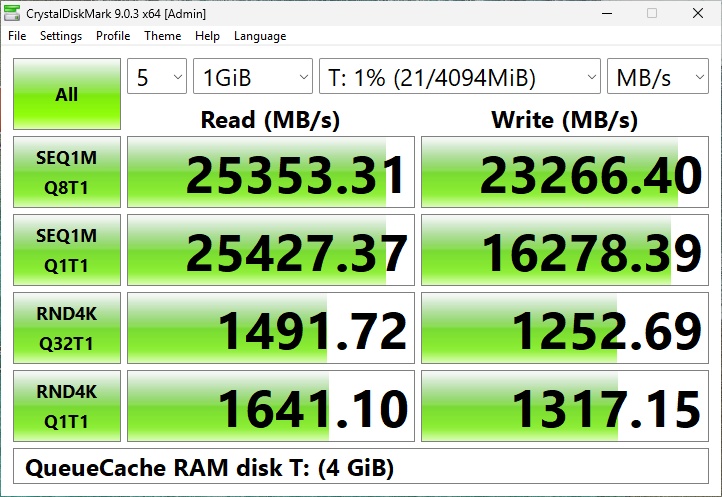
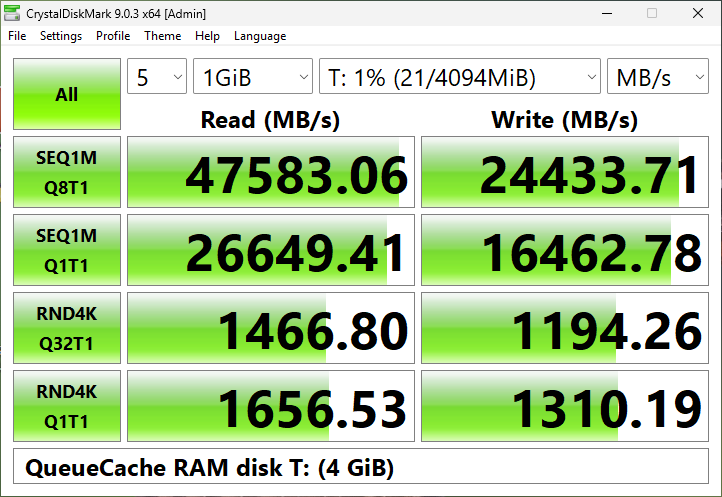
Record the final regression and CrystalDiskMark RAM-disk results
The lean release-performance campaign on signed 0.4.583.1 completes 11/11
phases and 106/106 cases with restoration; all retained correctness checks
pass and the write matrix shows no regression beyond cross-day variation.
CrystalDiskMark SEQ1M Q8T1 read on a 4 GiB RAM disk rises from 25,353 to
47,583 MB/s; the README's RAM disk column and screenshot are updated and the
known issue is marked resolved. The campaign guide describes the lean
profiles.

diff --git a/docs/PERFORMANCE_FINDINGS.md b/docs/PERFORMANCE_FINDINGS.md
@@ -90,6 +90,30 @@ reads then the standard path, 58,361 MiB verified, rebound. Under Verifier the
 same checks verified 14,452 + 18,690 + 17,558 MiB with no fault. Under Verifier
 submission is slower than a copy, so the adaptive policy correctly stays inline.
 
+**README benchmark.** Real CrystalDiskMark 9.0.3 GUI on a new 4 GiB RAM disk T:
+(0.4.583.1, default adaptive mode, normal priority, Verifier off, Default theme,
+150% zoom, two complete runs, the faster kept): SEQ1M Q8T1 read **47,583 MB/s**
+(README before: 25,353), write 24,434 (23,266); SEQ1M Q1T1 26,649 / 16,463;
+RND4K Q32T1 1,467 / 1,194; RND4K Q1T1 1,657 / 1,310 (1,641 / 1,317). The other
+run: 47,663 / 23,393, 26,206 / 16,830, 1,463 / 1,206, 1,649 / 1,312. Only the RAM
+disk column was re-measured; the Q: columns are unaffected and stay from 0.4.476.1.
+
+**Final regression.** Signed 0.4.583.1 (final source; drivers loaded and
+Verifier off), lean `release-performance`, one command: **COMPLETED 11/11 phases,
+106/106 cases, 1 h 56 min 23 s, restored**, run
+`QueueCache-Campaign-20261011-100402-d4f2fc304e714c708305406f06b93426`. All 118
+retained correctness sub-checks pass; 2,266 owned process exits are zero. The
+RAM reference under the new default measures Direct 1M Q8T1 at a median
+43,590 MiB/s (Q1T1 24,821, Q2T4 36,097; 4K reads never reach the new path). The
+lifecycle checks, recall, 30-minute sustained phase and map cost pass their
+guards. The 72-case write matrix against PR #8's run (0.4.476.1, two days
+earlier, same DiskSpd): cached sequential writes are within noise (Q1 +0.6%, Q8
+−5% to +1% with overlapping ranges), cached RND4K Q32 ±2%, cached RND4K Q1
+1.5–2.7% lower with separated ranges. That last difference is under the 3%
+review threshold and within cross-day variation seen before; PR #9's default-off
+diagnostics add a few counter updates to the cache path and may contribute.
+Uncached results follow the Ceph storage (higher today).
+
 ## Which changes belong together
 
 | Stage | Changes retained | Evidence and limits |
@@ -585,7 +609,7 @@ running again. Private evidence and lab files remain preserved.
 
 ## Recorded verification time
 
-These selected completed runs total approximately **3 hours 39 minutes**. This
+These selected completed runs total approximately **6 hours 2 minutes**. This
 is measured run time, not a reconstruction of all engineering work or every
 earlier investigation. Installation/restarts, CI, coding, analysis, incomplete
 attempts and inactive conversation gaps add time. The NTFS/ReFS gap from 04:54
@@ -608,6 +632,13 @@ to 06:55 was not two hours spent executing that benchmark.
 | Controller/restoration retry smoke, two phases | 1 min 07 s |
 | Plan-116 RAM attribution, 81 correctness checks + 3 traced windows | 7 min 38 s |
 | Plan-116 cached priority/affinity, 81 correctness checks + 36 untraced windows | 25 min 02 s |
+| Plan-117 coordination diagnostic, nine windows | 4 min 33 s |
+| Plan-117 controller smoke, two phases | 1 min 18 s |
+| Wake-up smoke (owned job, agent idle), two phases | 1 min 03 s |
+| Plan-118 asynchronous-read comparison, 18 windows | 8 min 50 s |
+| Plan-119 revision comparison, 18 windows | 8 min 52 s |
+| Plan-119 lifecycle checks, with / without Driver Verifier | 1 min 10 s / 55 s |
+| Final `release-performance` regression, 11 phases / 106 cases | 1 h 56 min 23 s |
 
 The original priority run's main scores total about six minutes within its nineteen-minute
 run. Preparation, residency proofs, warmup, worker/process ownership and
@@ -624,6 +655,15 @@ the RAM trace phase takes 2 min 40 s of its 7 min 38 s campaign. The surrounding
 policy/pressure checks, preparation and restoration explain much of the remaining
 time. Tool/bootstrap failures and engineering/CI time remain separate from these
 completed measurements.
+
+Not counted above (preserved separately; none contributes a result): the Driver
+Verifier run that bugchecked (0x3B, fixed before measurement), a Verifier run and
+a lifecycle run stopped by over-strict activation checks, one comparison refused
+at start because Q: still had unwritten data, and the first final regression,
+which stopped after 33 minutes in the sustained phase: a 197 GB resident reread
+saw six background metadata reads (4.5 KiB) on Q:, most likely the Everything
+file indexer that had restarted at sign-in. Everything and Steam were closed and
+the complete regression rerun passed.
 
 ## Current decisions and when to repeat tests
 

diff --git a/docs/PERFORMANCE_CAMPAIGN_PLAN.md b/docs/PERFORMANCE_CAMPAIGN_PLAN.md
@@ -22,7 +22,7 @@ Run one foreground command with explicit targets and an immutable campaign plan.
 For example:
 
 ```powershell
-qcache developer verify Q: --campaign performance --lab-ntfs W: --lab-refs R: --diskspd C:\Tools\DiskSpd\diskspd.exe --pause-backing-cache --output C:\QueueCache-Results
+qcache developer verify Q: --campaign performance --lab-ntfs W: --diskspd C:\Tools\DiskSpd\diskspd.exe --pause-backing-cache --output C:\QueueCache-Results
 ```
 
 Selecting a campaign is mutually exclusive with selecting a single suite. No `--detach`, new
@@ -34,7 +34,7 @@ Current user workflow: use a maintained individual suite and affected correctnes
 checks while diagnosing or comparing a concrete speedup. The profile named
 `focused` also adds 81 retained correctness checks; it is not the minimum unit of
 iteration. Reserve the broad `release-performance` campaign for the final
-retained candidate, launch it once, and review the combined report after exit.
+build, launch it once, and review the combined report after exit.
 This changes run selection, not suite contracts/counts or evidence guards. More
 priority/affinity diagnosis and a dedicated 100 ms UI study are parked; historical
 measurements remain available without rerunning them.
@@ -61,9 +61,9 @@ flowchart LR
 |---|---|---|
 | `smoke` | Two maintained NTFS cases: `quick`, `partial-read-accounting` | Short real-run orchestration check, no DiskSpd needed. |
 | `focused` | `--focus-suite` plus partial-read, paging, policy, pressure and final ordering/fault checks | Only the named affected measurement suite; optional ReFS only for caller-backoff. |
-| `experiment` | Exactly one `--focus-suite ram-read-coordination` phase | Nine off/on/off RAM diagnostic windows at one repeat, without the 81 retained checks. Candidate suites remain conditional/unimplemented. Explicit NTFS role, preparation, identities and restoration still required. |
-| `performance` | Retained correctness; cache layout; RAM reference and scheduling controls; NTFS/optional ReFS caller; priority; recall; 120-second sustained accounting; map cost; ordering/faults last | Thirteen phases / 118 outer cases without ReFS at defaults; fourteen / 142 with ReFS. The short sustained phase is a smoke, not 30-minute acceptance. No retired queue, disk-removal or write matrix. |
-| `release-performance` | Performance plus `write-performance`; sustained default 1800 seconds | Fourteen phases / 190 outer cases without ReFS; fifteen / 214 with ReFS. Write suite has 72 cases at three repeats. GUI CrystalDiskMark/README tasks remain separate. |
+| `experiment` | Exactly one phase: `ram-read-coordination`, `ram-read-async` or `ram-read-async-lifecycle` | One narrow RAM suite without the 81 retained checks (nine diagnostic windows; 18 off/adaptive comparison windows at three repeats; one lifecycle case). Explicit NTFS role, preparation, identities and restoration still required. |
+| `performance` | Product-default regression: retained correctness; RAM reference; asynchronous read lifecycle; recall; 120-second sustained accounting; map cost; ordering/faults last | Ten phases / 34 outer cases at defaults. Concluded mode comparisons (`cache-layout`, `ram-read-scheduling`, `caller-backoff`, `priority-cost`) are standalone suites only; no ReFS phase. The short sustained phase is a smoke, not 30-minute acceptance. |
+| `release-performance` | Performance plus `write-performance`; sustained default 1800 seconds | Eleven phases / 106 outer cases. Write suite has 72 cases at three repeats. GUI CrystalDiskMark/README tasks remain separate. |
 
 Campaign budgets default to 2048 MiB; repetitions/duration remain explicit and
 are forwarded to maintained factories. `cache-sustained` always has one repetition;

diff --git a/docs/KNOWN_ISSUES.md b/docs/KNOWN_ISSUES.md
@@ -124,36 +124,14 @@ conditional on representative overlap and fragmentation evidence, with ordering
 and error handling preserved. See the consolidated
 [findings](PERFORMANCE_FINDINGS.md#partly-cached-requests-accounting-first).
 
-## One program reading a RAM disk tops out at about 26 GB/s (performance)
+## One program reading a RAM disk topped out at about 26 GB/s (resolved in PR #9)
 
-What you see: on the 4-vCPU test VM, one DiskSpd thread reads a RAM disk with 1 MiB
-requests at about 26 GB/s whether it keeps 1 or 8 requests outstanding (Q1 or Q8);
-four threads together reach 40-42 GB/s. CrystalDiskMark's SEQ1M Q8T1 row is that
-single-thread case. A cached volume reaches about 39 GB/s from one thread at Q8.
-
-Why: with Direct access the RAM disk copies each read when the request arrives,
-splitting one large copy over its worker threads, so one program's queued requests
-are copied one after another. Four programs (or threads) give four copies at once.
-The cache instead hands queued hits to its own copy threads, so they overlap.
-
-The provider already has dedicated copy workers. A follow-up should profile the
-handoff, wake-up and copying costs before choosing another way to overlap whole
-requests. Earlier system-worker designs gave no gain (25 vs 26 GB/s) or fell to
-13-17 GB/s. Queued Direct copies using the provider's per-processor workers were
-also tried and removed (`3fb9d39`, `e8e31c8`): large reads reached 20.8-22.3 GB/s,
-with 21% of busy CPU samples spinning versus 28% copying. Adding worker threads
-alone therefore is not a demonstrated fix.
-
-The possible gain is for one-thread, deep-queue readers. Four readers' aggregate
-40-42 GB/s shows available bandwidth, but does not prove that one reader can reach
-it. Retain a scheduling change only after a controlled Q8 gain, with Q1,
-small-read and multi-threaded controls and byte/lifecycle checks.
-
-The later shared sleeping whole-read queue also loses in a complete 54-window
-same-build comparison: −11.30% single-reader Q8 and −49.62% four-reader throughput.
-Its engine is removed; synchronous split copies remain. Full measurements and
-limits are in [RAM scheduling](RAM_READ_SCHEDULING_20261010.md) and the
-[consolidated findings](PERFORMANCE_FINDINGS.md).
+One thread with 1 MiB reads got about 26 GB/s whether it queued 1 or 8 requests,
+because each Direct read was copied before the next could be submitted. Since
+0.4.583.1, large queued reads hand their chunks to the RAM disk's helper threads
+and return, so one program's queued reads overlap: CrystalDiskMark SEQ1M Q8T1
+read 25,353 -> 47,583 MB/s on the 4-vCPU test VM; Q1 and multi-threaded reads are
+unchanged. Details: [findings](PERFORMANCE_FINDINGS.md#ram-disk-asynchronous-split-reads-accepted-pr-9).
 
 ## Raw disk reads and writes bypass the cache (by design)
 

diff --git a/README.md b/README.md
@@ -75,7 +75,8 @@ machine's physical RAM.
 ## Performance
 
 [CrystalDiskMark](https://crystalmark.info/en/software/crystaldiskmark/) 9.0.3,
-default test (1 GiB, 5 passes), the better of two runs per column, QueueCache 0.4.476.1.
+default test (1 GiB, 5 passes), the better of two runs per column. Both Q: columns:
+QueueCache 0.4.476.1; RAM disk column: QueueCache 0.4.583.1 (2026-10-11).
 
 | Test machine | |
 |---|---|
@@ -90,16 +91,18 @@ default test (1 GiB, 5 passes), the better of two runs per column, QueueCache 0.
 
 | MB/s | Q: without cache | Q: with 2 GiB Fast cache | 4 GiB RAM disk |
 |---|---:|---:|---:|
-| Sequential read (SEQ1M Q8T1) | 594 | 39,492 | 25,353 |
-| Sequential write (SEQ1M Q8T1) | 112 | 21,504 | 23,266 |
-| Random 4K read (RND4K Q1T1) | 9.0 | 1,292 | 1,641 |
-| Random 4K write (RND4K Q1T1) | 1.2 | 1,031 | 1,317 |
+| Sequential read (SEQ1M Q8T1) | 594 | 39,492 | 47,583 |
+| Sequential write (SEQ1M Q8T1) | 112 | 21,504 | 24,434 |
+| Random 4K read (RND4K Q1T1) | 9.0 | 1,292 | 1,657 |
+| Random 4K write (RND4K Q1T1) | 1.2 | 1,031 | 1,310 |
 
 The test file fits in RAM, so this shows what QueueCache does for data that is
 in its cache. Work larger than the cache runs at the drive's own speed, which on
 this network storage varies (earlier the same day it wrote 245 MB/s
-sequentially); all three columns were measured the same evening, without a
-restart in between.
+sequentially); both Q: columns were measured the same evening, without a
+restart in between. The RAM disk column was re-measured after RAM-disk reads
+became asynchronous: one program with eight reads queued now keeps every
+processor copying (SEQ1M Q8T1 read was 25,353 MB/s before).
 [How these were measured](docs/BENCHMARKING.md).
 
 ## Getting started
